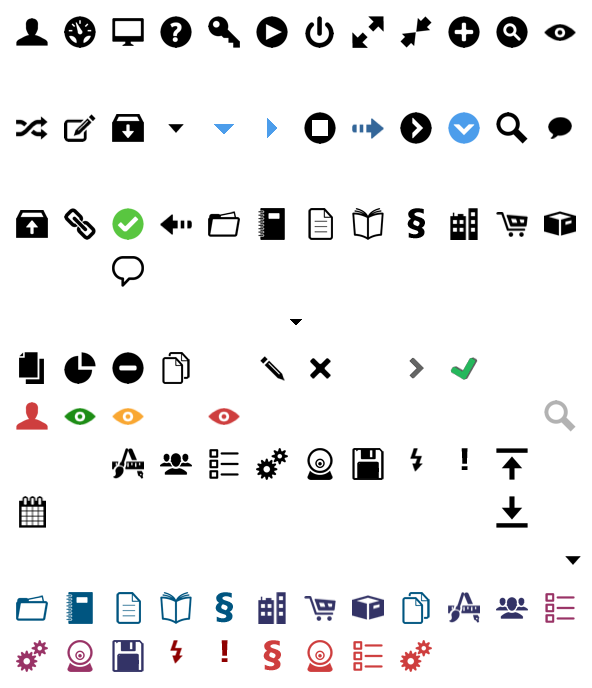
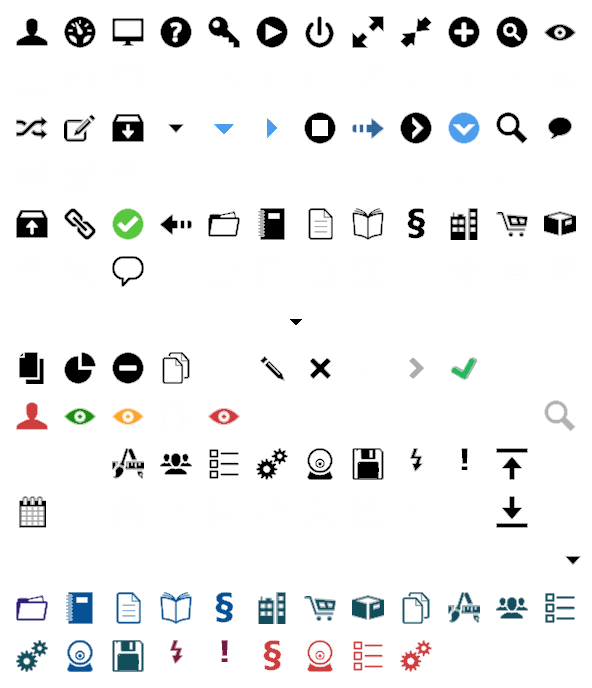
Story 48283899: Reorganized dashboard so programs is its own widget, compliance box is gone, systems and processes are now assets, and controls are now governance. In addition, quick find has been reordered, colors for every top category have been changed, and the object pages for the moved objects 

diff --git a/app/assets/javascripts/apps/dashboard.js b/app/assets/javascripts/apps/dashboard.js
@@ -90,21 +90,21 @@ var widget_descriptors = {
   , "process" : {
     model : CMS.Models.Process
     , object_type : "process"
-    , object_category : "compliance"
+    , object_category : "business"
     , object_route : "systems"
     , object_display : "Processes"
   }
   , "system" : {
     model : CMS.Models.StrictSystem
     , object_type : "system"
-    , object_category : "compliance"
+    , object_category : "business"
     , object_route : "systems"
     , object_display : "Systems"
   }
   , "control" : {
     model : CMS.Models.Control
     , object_type : "control"
-    , object_category : "compliance"
+    , object_category : "governance"
     , object_route : "controls"
     , object_display : "Controls"
   }
@@ -132,7 +132,7 @@ var widget_descriptors = {
   , "system_process" : {
     model : CMS.Models.System
     , object_type : "system_process"
-    , object_category : "compliance"
+    , object_category : "business"
     , object_route : "systems"
     , object_display : "Systems/Processes"
     , widget_view : "/assets/systems/object_widget.mustache"
@@ -147,29 +147,24 @@ var widget_descriptors = {
 
 var programs_dash_menu = {categories : [
   {
-    title : "Governance"
+    title : "Governance / Compliance"
     , objects: [
-      widget_descriptors.program
-      , widget_descriptors.regulation
+      widget_descriptors.regulation
       , widget_descriptors.policy
       , widget_descriptors.contract
+      , widget_descriptors.control
     ]
   }, {
-    title : "Business"
+    title : "Asset / Business"
     , objects: [
-      widget_descriptors.org_group
+      widget_descriptors.system
+      , widget_descriptors.process
+      , widget_descriptors.org_group
       , widget_descriptors.project
       , widget_descriptors.facility
       , widget_descriptors.product
       , widget_descriptors.data_asset
       , widget_descriptors.market
-    ]
-  }, {
-    title : "Compliance"
-    , objects: [
-      widget_descriptors.process
-      , widget_descriptors.system
-      , widget_descriptors.control
     ]
   }, {
     title : "Risk"

diff --git a/app/assets/stylesheets/_tree.scss b/app/assets/stylesheets/_tree.scss
@@ -595,6 +595,8 @@ ul.elements {
 }
 
 ul.tree-structure {
+  li.process,
+  li.system,
   li.product,
   li.orggroup,
   li.project,
@@ -605,15 +607,12 @@ ul.tree-structure {
       color:$business;
     } 
   }
-
-  li.process,
-  li.system,
-  li.control {
+/*  .notusednow {
     .code {
       color:$compliance;
     } 
   }
-
+*/
   li.risk,
   li.riskyattribute {
     .code {
@@ -621,6 +620,7 @@ ul.tree-structure {
     } 
   }
 
+  li.control,
   li.program,
   li.directive,
   li.policy,

diff --git a/app/assets/stylesheets/_setup.scss b/app/assets/stylesheets/_setup.scss
@@ -33,9 +33,10 @@
   // compliance
     $defaultWidget: #444; // WCAG AAA
     $compliance: #936;  // WCAG AAA
-    $governance: #005580;  // WCAG AAA
-    $business: #336;  // WCAG AAA
-    $risk: #8e0000;  // WCAG AAA
+    $governance: #085394;  // WCAG AAA
+    $business: #134f5c;  // WCAG AAA
+    $risk: #741b47;  // WCAG AAA
+    $programs: #351c75; //???
 
   // default colors
     $white: #fff;

diff --git a/app/assets/javascripts/mustache_helper.js b/app/assets/javascripts/mustache_helper.js
@@ -226,7 +226,7 @@ $.ajaxPrefilter(function( options, originalOptions, jqXHR ) {
             data[token] = data[token].call(that);
           }
 
-          that.bind(token + "." + hash, $.proxy(sub_all, that, el));
+          that.bind && that.bind(token + "." + hash, $.proxy(sub_all, that, el));
 
           return "{" + match + "}";
         });

diff --git a/app/assets/stylesheets/_widget.scss b/app/assets/stylesheets/_widget.scss
@@ -34,6 +34,14 @@
       }
     }
   }
+  &.programs {
+    .header {
+      background: $programs;
+      .widget-action {
+        background: darken($programs, 7%);
+      }
+    }
+  }
   &.risk {
     .header {
       background: $risk;

diff --git a/app/assets/stylesheets/_icons.scss b/app/assets/stylesheets/_icons.scss
@@ -382,7 +382,7 @@
   &.governance {
     background-position: 0 0;
   }
-  &.compliance {
+  &.programs {
     background-position: 0 -36px;
   }
   &.business {

diff --git a/app/assets/stylesheets/_common.scss b/app/assets/stylesheets/_common.scss
@@ -40,7 +40,7 @@ h4 {
 }
 
 h1, h2, h3, h4, h5, h6 {
-  &.compliance {
+  &.programs {
     color:$compliance;
   }
   &.governance {
